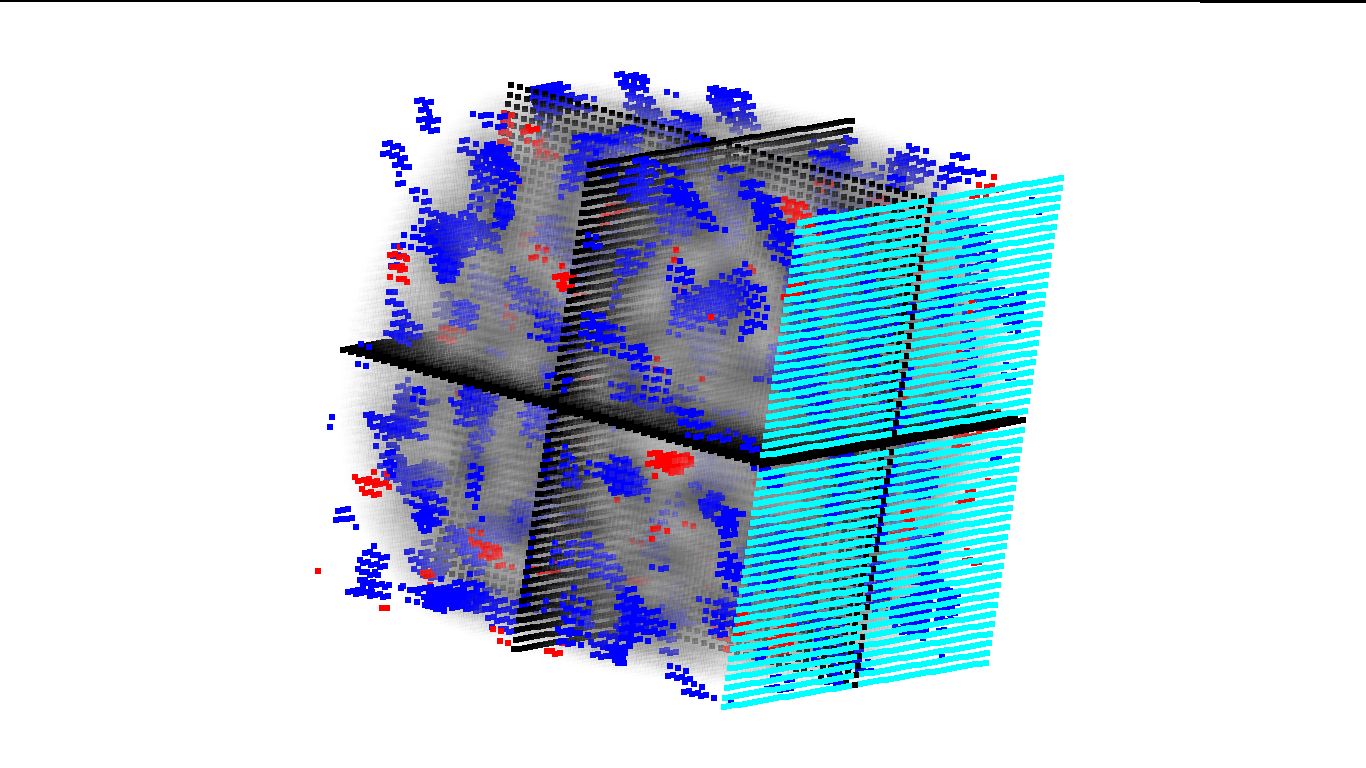
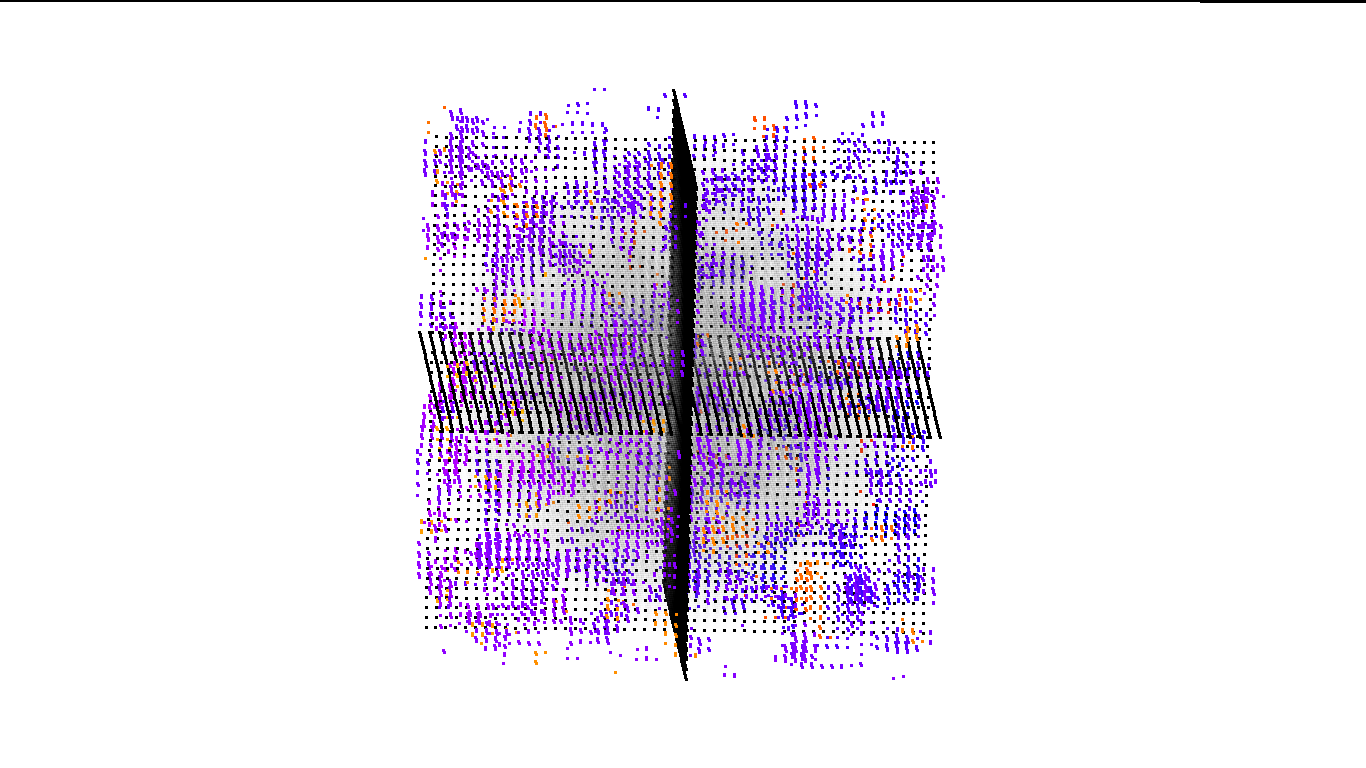
after 62.5 million point demo

diff --git a/main.cc b/main.cc
@@ -31,6 +31,13 @@
 #include "resources/glm/gtc/type_ptr.hpp" //allows the sending of a matrix (weird workaround for glUniform...)
 
 
+GLfloat left = -1.366f;
+GLfloat right = 1.366f;
+GLfloat top = -0.768f;
+GLfloat bottom = 0.768f;
+GLfloat zNear = -1.0f;
+GLfloat zFar = 1.0f;
+
 // Perlin noise - simple implementation from https://github.com/sol-prog/Perlin_Noise
 #include "resources/perlin.h"
 
@@ -48,7 +55,7 @@ const int image_width = 1366;
 
 
 // verticies
-const int NumVertices = 7000000;
+const int NumVertices = 64000000;
 
 point4 points[NumVertices];
 color4 colors[NumVertices];
@@ -121,12 +128,10 @@ void gencube()
 {
 	GLfloat num;
 
-	std::vector<GLfloat> range = {-0.5,-0.48,-0.46,-0.44,-0.42,-0.4,-0.38,-0.36,-0.34,-0.32,-0.3,-0.28,-0.26,-0.24,-0.22,-0.2,-0.18,-0.16,-0.14,-0.12,-0.1,-0.08,-0.06,-0.04,-0.02,0,0.02,0.04,0.06,0.08,0.1,0.12,0.14,0.16,0.18,0.2,0.22,0.24,0.26,0.28,0.3,0.32,0.34,0.36,0.38,0.4,0.42,0.44,0.46,0.48,0.5};
+	// std::vector<GLfloat> range = {-0.5,-0.48,-0.46,-0.44,-0.42,-0.4,-0.38,-0.36,-0.34,-0.32,-0.3,-0.28,-0.26,-0.24,-0.22,-0.2,-0.18,-0.16,-0.14,-0.12,-0.1,-0.08,-0.06,-0.04,-0.02,0,0.02,0.04,0.06,0.08,0.1,0.12,0.14,0.16,0.18,0.2,0.22,0.24,0.26,0.28,0.3,0.32,0.34,0.36,0.38,0.4,0.42,0.44,0.46,0.48,0.5};
 
 
-	// std::vector<GLfloat> range = {-0.5,-0.49,-0.48,-0.47,-0.46,-0.45,-0.44,-0.43,-0.42,-0.41,-0.4,-0.39,-0.38,-0.37,-0.36,-0.35,-0.34,-0.33,-0.32,-0.31,-0.3,-0.29,-0.28,-0.27,-0.26,-0.25,-0.24,-0.23,-0.22,-0.21,-0.2,-0.19,-0.18,-0.17,-0.16,-0.15,-0.14,-0.13,-0.12,-0.11,-0.1,-0.09,-0.08,-0.07,-0.06,-0.05,-0.04,-0.03,-0.02,-0.01,0.0,0.01,0.02,0.03,0.04,0.05,0.06,0.07,0.08,0.09,0.1,0.11,0.12,0.13,0.14,0.15,0.16,0.17,0.18,0.19,0.2,0.21,0.22,0.23,0.24,0.25,0.26,0.27,0.28,0.29,0.3,0.31,0.32,0.33,0.34,0.35,0.36,0.37,0.38,0.39,0.4,0.41,0.42,0.43,0.44,0.45,0.46,0.47,0.48,0.49,0.5};
-
-
+	std::vector<GLfloat> range = {-0.5,-0.497468,-0.494937,-0.492405,-0.489873,-0.487342,-0.48481,-0.482278,-0.479747,-0.477215,-0.474684,-0.472152,-0.46962,-0.467089,-0.464557,-0.462025,-0.459494,-0.456962,-0.45443,-0.451899,-0.449367,-0.446835,-0.444304,-0.441772,-0.439241,-0.436709,-0.434177,-0.431646,-0.429114,-0.426582,-0.424051,-0.421519,-0.418987,-0.416456,-0.413924,-0.411392,-0.408861,-0.406329,-0.403797,-0.401266,-0.398734,-0.396203,-0.393671,-0.391139,-0.388608,-0.386076,-0.383544,-0.381013,-0.378481,-0.375949,-0.373418,-0.370886,-0.368354,-0.365823,-0.363291,-0.360759,-0.358228,-0.355696,-0.353165,-0.350633,-0.348101,-0.34557,-0.343038,-0.340506,-0.337975,-0.335443,-0.332911,-0.33038,-0.327848,-0.325316,-0.322785,-0.320253,-0.317722,-0.31519,-0.312658,-0.310127,-0.307595,-0.305063,-0.302532,-0.3,-0.297468,-0.294937,-0.292405,-0.289873,-0.287342,-0.28481,-0.282278,-0.279747,-0.277215,-0.274684,-0.272152,-0.26962,-0.267089,-0.264557,-0.262025,-0.259494,-0.256962,-0.25443,-0.251899,-0.249367,-0.246835,-0.244304,-0.241772,-0.239241,-0.236709,-0.234177,-0.231646,-0.229114,-0.226582,-0.224051,-0.221519,-0.218987,-0.216456,-0.213924,-0.211392,-0.208861,-0.206329,-0.203797,-0.201266,-0.198734,-0.196203,-0.193671,-0.191139,-0.188608,-0.186076,-0.183544,-0.181013,-0.178481,-0.175949,-0.173418,-0.170886,-0.168354,-0.165823,-0.163291,-0.160759,-0.158228,-0.155696,-0.153165,-0.150633,-0.148101,-0.14557,-0.143038,-0.140506,-0.137975,-0.135443,-0.132911,-0.13038,-0.127848,-0.125316,-0.122785,-0.120253,-0.117722,-0.11519,-0.112658,-0.110127,-0.107595,-0.105063,-0.102532,-0.1,-0.0974684,-0.0949367,-0.0924051,-0.0898734,-0.0873418,-0.0848101,-0.0822785,-0.0797468,-0.0772152,-0.0746835,-0.0721519,-0.0696203,-0.0670886,-0.064557,-0.0620253,-0.0594937,-0.056962,-0.0544304,-0.0518987,-0.0493671,-0.0468354,-0.0443038,-0.0417721,-0.0392405,-0.0367089,-0.0341772,-0.0316456,-0.0291139,-0.0265823,-0.0240506,-0.021519,-0.0189873,-0.0164557,-0.013924,-0.0113924,-0.00886076,-0.00632911,-0.00379747,-0.00126582,0,0.00126583,0.00379747,0.00632912,0.00886076,0.0113924,0.0139241,0.0164557,0.0189873,0.021519,0.0240506,0.0265823,0.0291139,0.0316456,0.0341772,0.0367089,0.0392405,0.0417722,0.0443038,0.0468354,0.0493671,0.0518987,0.0544304,0.056962,0.0594937,0.0620253,0.064557,0.0670886,0.0696203,0.0721519,0.0746835,0.0772152,0.0797468,0.0822785,0.0848101,0.0873418,0.0898734,0.0924051,0.0949367,0.0974684,0.1,0.102532,0.105063,0.107595,0.110127,0.112658,0.11519,0.117722,0.120253,0.122785,0.125316,0.127848,0.13038,0.132911,0.135443,0.137975,0.140506,0.143038,0.14557,0.148101,0.150633,0.153165,0.155696,0.158228,0.160759,0.163291,0.165823,0.168354,0.170886,0.173418,0.175949,0.178481,0.181013,0.183544,0.186076,0.188608,0.191139,0.193671,0.196203,0.198734,0.201266,0.203797,0.206329,0.208861,0.211392,0.213924,0.216456,0.218987,0.221519,0.224051,0.226582,0.229114,0.231646,0.234177,0.236709,0.239241,0.241772,0.244304,0.246835,0.249367,0.251899,0.25443,0.256962,0.259494,0.262025,0.264557,0.267089,0.26962,0.272152,0.274684,0.277215,0.279747,0.282278,0.28481,0.287342,0.289873,0.292405,0.294937,0.297468,0.3,0.302532,0.305063,0.307595,0.310127,0.312658,0.31519,0.317722,0.320253,0.322785,0.325316,0.327848,0.33038,0.332911,0.335443,0.337975,0.340506,0.343038,0.34557,0.348101,0.350633,0.353165,0.355696,0.358228,0.360759,0.363291,0.365823,0.368354,0.370886,0.373418,0.375949,0.378481,0.381013,0.383544,0.386076,0.388608,0.391139,0.393671,0.396203,0.398734,0.401266,0.403797,0.406329,0.408861,0.411392,0.413924,0.416456,0.418987,0.421519,0.424051,0.426582,0.429114,0.431646,0.434177,0.436709,0.439241,0.441772,0.444304,0.446835,0.449367,0.451899,0.45443,0.456962,0.459494,0.462025,0.464557,0.467089,0.46962,0.472152,0.474684,0.477215,0.479747,0.482278,0.48481,0.487342,0.489873,0.492405,0.494937,0.497468,0.5};
 	PerlinNoise p;
 
 	for(const auto& x : range){
@@ -222,7 +227,7 @@ void init( Shader s )
 		ortho_matrix = glGetUniformLocation( s.Program, "view" ); //allows the scaling to the screen dimensions`
 
 
-		Projection = glm::ortho(-1.366f, 1.366f, -0.768f, 0.768f, -1.0f, 1.0f);
+		Projection = glm::ortho(left, right, top, bottom, zNear, zFar);
 
 		glUniformMatrix4fv( ortho_matrix, 1, GL_FALSE,  glm::value_ptr( Projection ) );
 
@@ -396,6 +401,33 @@ void keyboard( unsigned char key, int x, int y )
 					pointsize -= 1;
 					glPointSize( pointsize );
 					break;
+
+		  case 's':
+				 left *= 1.1;
+				 right *= 1.1;
+				 top *= 1.1;
+				 bottom *= 1.1;
+				 zNear *= 1.1;
+				 zFar *= 1.1;
+
+				 Projection = glm::ortho(left, right, top, bottom, zNear, zFar);
+
+		 		glUniformMatrix4fv( ortho_matrix, 1, GL_FALSE,  glm::value_ptr( Projection ) );
+				 break;
+
+		  case 'x':
+					left *= 0.9;
+					right *= 0.9;
+					top *= 0.9;
+					bottom *= 0.9;
+					zNear *= 0.9;
+					zFar *= 0.9;
+
+					Projection = glm::ortho(left, right, top, bottom, zNear, zFar);
+
+				 glUniformMatrix4fv( ortho_matrix, 1, GL_FALSE,  glm::value_ptr( Projection ) );
+				break;
+
 
 		  // take screnshot
 			case ' ':

diff --git a/test.cc b/test.cc
@@ -35,7 +35,10 @@ int main(){
 	//
 	// std:: cout << num_points;
 
-	for(double i = -0.5; i < 0.5; i += 0.01)
+	double inc = 1.0f/395.0f; std::cout << inc << std::endl << std::endl;
+
+
+	for(double i = -0.5; i < 0.5; i += inc)
 	{
 		std::cout << i << ",";
 	}
